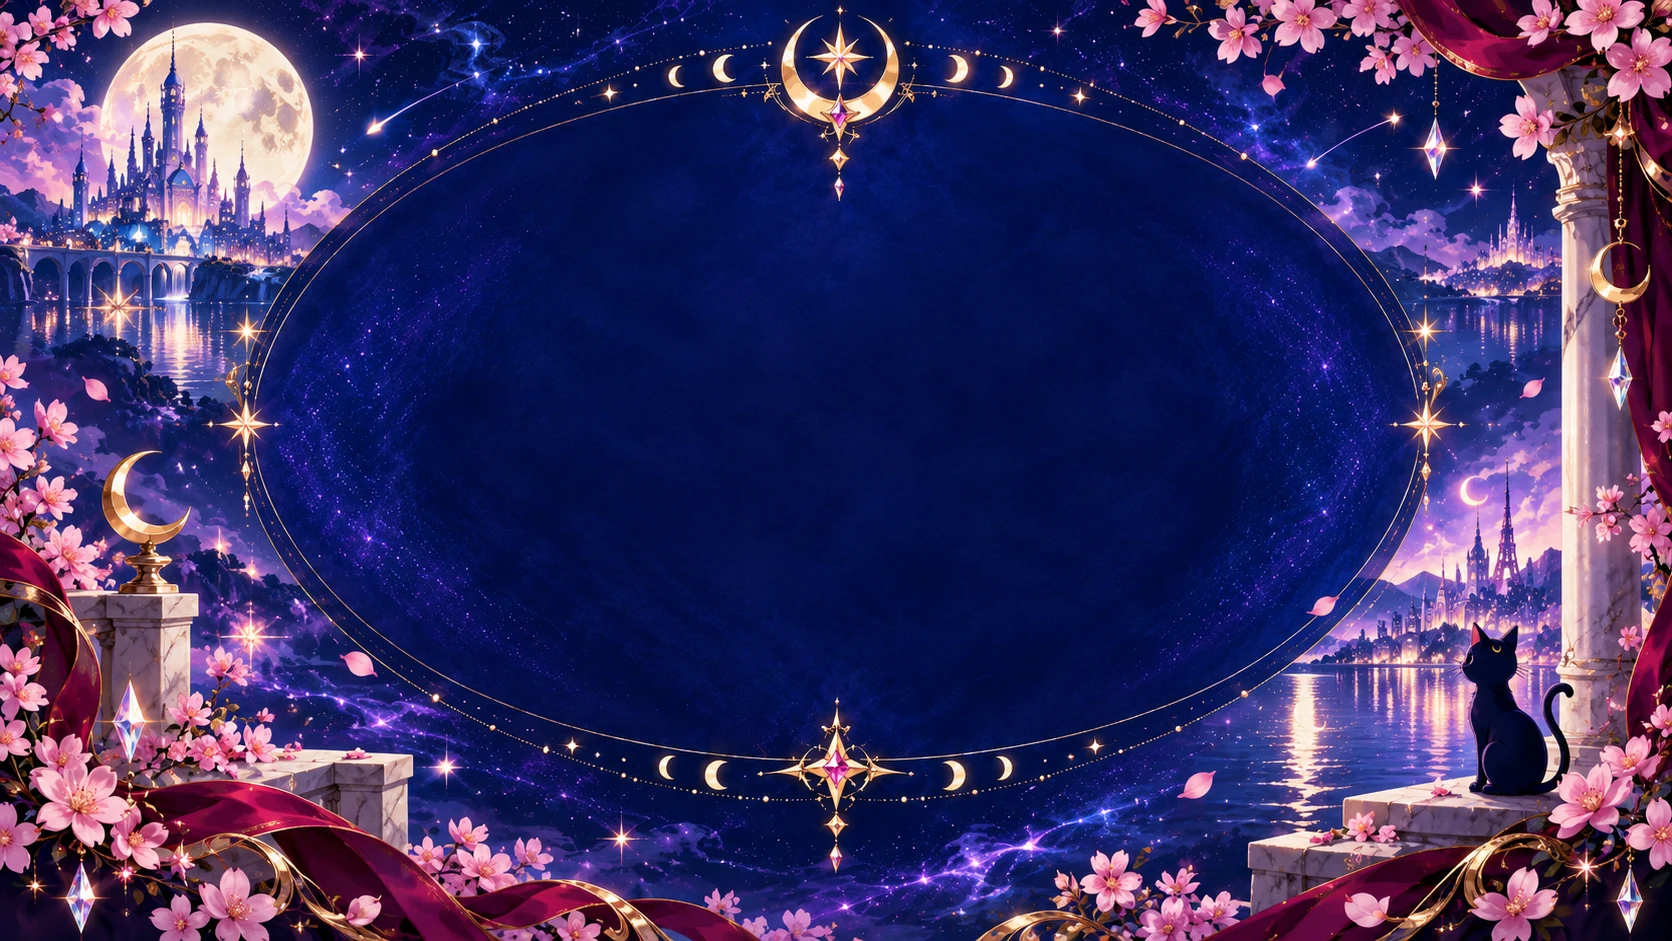
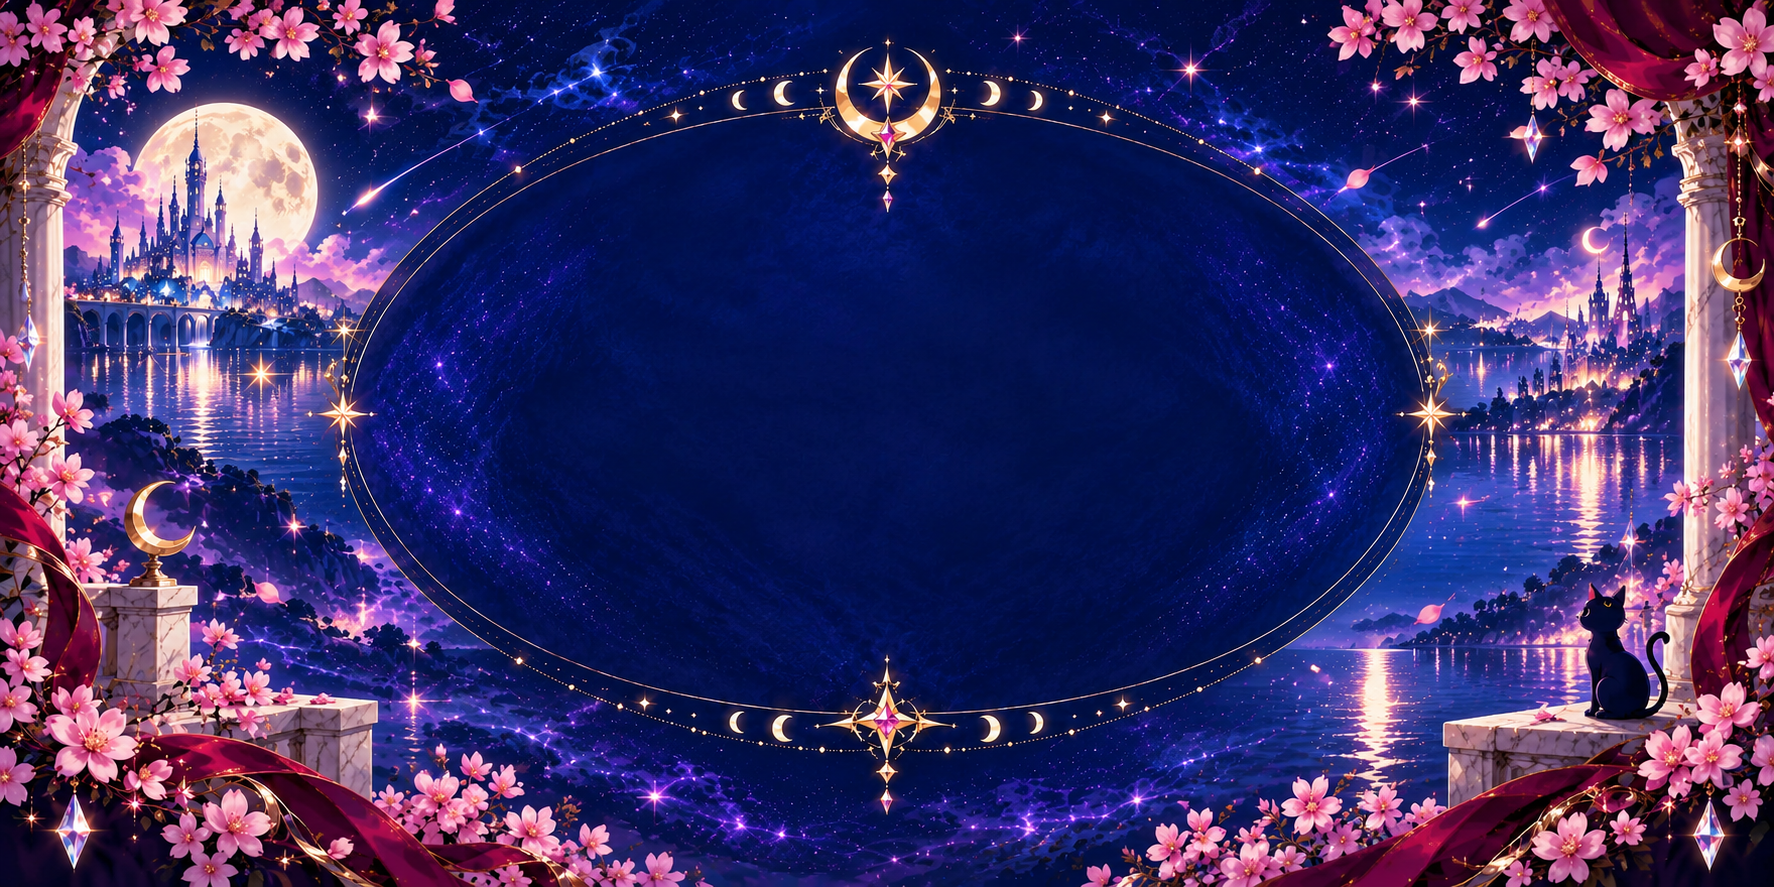
Ajustando imagens fundo de mesa

diff --git a/js/game/table-background.js b/js/game/table-background.js
@@ -1,0 +1,64 @@
+// Keep full coverage while recovering artwork otherwise lost to cover cropping.
+// Only the overflowing axis is compressed, by at most 15%; never stretch cards.
+export function fittedBackgroundSize(width, height, imageWidth, imageHeight) {
+  const scale = Math.max(width / imageWidth, height / imageHeight);
+  return [Math.max(width, imageWidth * scale * 0.85), Math.max(height, imageHeight * scale * 0.85)];
+}
+
+const table = document.getElementById('gameSection');
+const sources = new Map();
+let revision = 0;
+let preservedArt;
+
+// Fill tiny gaps only (up to 4% zoom); otherwise keep the entire composition.
+export function preservedBackgroundSize(width, height, imageWidth, imageHeight) {
+  const contain = Math.min(width / imageWidth, height / imageHeight);
+  const cover = Math.max(width / imageWidth, height / imageHeight);
+  const scale = cover / contain <= 1.04 ? cover : contain;
+  return [imageWidth * scale, imageHeight * scale];
+}
+
+async function fitBackground() {
+  const current = ++revision;
+  // Clear our previous sizing before inspecting the currently selected theme.
+  table.style.removeProperty('background-size');
+  preservedArt?.remove();
+  const background = getComputedStyle(table).backgroundImage;
+  // Only single raster-image backgrounds; leave gradients and tiled SVGs intact.
+  const match = /^url\(["']?(.*?)["']?\)$/.exec(background);
+  if (!match || !/\.(?:webp|png|jpe?g)(?:[?#].*)?$/i.test(match[1])) return;
+  const src = match[1];
+  if (!sources.has(src)) sources.set(src, new Promise(resolve => {
+    const image = new Image();
+    image.onload = () => resolve([image.naturalWidth, image.naturalHeight]);
+    image.onerror = () => resolve(null);
+    image.src = src;
+  }));
+  const dimensions = await sources.get(src);
+  if (current !== revision || !dimensions) return;
+  const { width, height } = table.getBoundingClientRect();
+  if (!width || !height) return;
+  if (document.body.dataset.tableTheme === 'resident') {
+    if (!preservedArt) {
+      preservedArt = document.createElement('div');
+      preservedArt.className = 'table-preserved-art';
+      preservedArt.setAttribute('aria-hidden', 'true');
+      preservedArt.innerHTML = '<div class="table-art-fill"></div><div class="table-art-original"></div>';
+    }
+    const size = preservedBackgroundSize(width, height, ...dimensions);
+    preservedArt.style.setProperty('--preserved-image', background);
+    preservedArt.style.setProperty('--preserved-size', size.map(value => `${value}px`).join(' '));
+    table.prepend(preservedArt);
+    return;
+  }
+  const size = fittedBackgroundSize(width, height, ...dimensions);
+  table.style.backgroundSize = size.map(value => `${value}px`).join(' ');
+}
+
+if (table) {
+  new ResizeObserver(fitBackground).observe(table);
+  new MutationObserver(fitBackground).observe(document.body, {
+    attributes: true, attributeFilter: ['data-table-theme'],
+  });
+  fitBackground();
+}

diff --git a/styles/resident.css b/styles/resident.css
@@ -1,4 +1,25 @@
 /* Image skins only: card sizes, selection, stacking and flights stay unchanged. */
+/* Responsive composition: untouched foreground plus a soft fill behind it.
+   Both layers are decorative and never participate in the game layout. */
+body[data-table-theme='resident'] #gameSection > .table-preserved-art {
+  position: absolute;
+  inset: 0;
+  z-index: 0;
+  pointer-events: none;
+  overflow: hidden;
+}
+.table-preserved-art > div {
+  position: absolute;
+  inset: 0;
+  background: var(--preserved-image) center / cover no-repeat;
+}
+.table-preserved-art .table-art-fill {
+  inset: -24px;
+  filter: blur(18px) brightness(.65);
+}
+.table-preserved-art .table-art-original {
+  background-size: var(--preserved-size);
+}
 .resident-card-art { display: none; }
 body[data-deck-theme='resident'] .resident-card-art {
   display: block;

diff --git a/service-worker.js b/service-worker.js
@@ -1,6 +1,7 @@
-const CACHE_NAME = 'buraco-v183';
+const CACHE_NAME = 'buraco-v184';
 
 const ASSETS = [
+  './js/game/table-background.js',
   './styles/resident.css',
   ...['spades', 'hearts', 'clubs', 'diamonds'].flatMap((suit) => ['A', '2', '3', '4', '5', '6', '7', '8', '9', '10', 'J', 'Q', 'K'].map((rank) => `./assets/resident/${suit}-${rank}.webp`)),
   ...['joker-red', 'joker-blue', 'back-red', 'back-blue', 'table'].map((name) => `./assets/resident/${name}.webp`),
